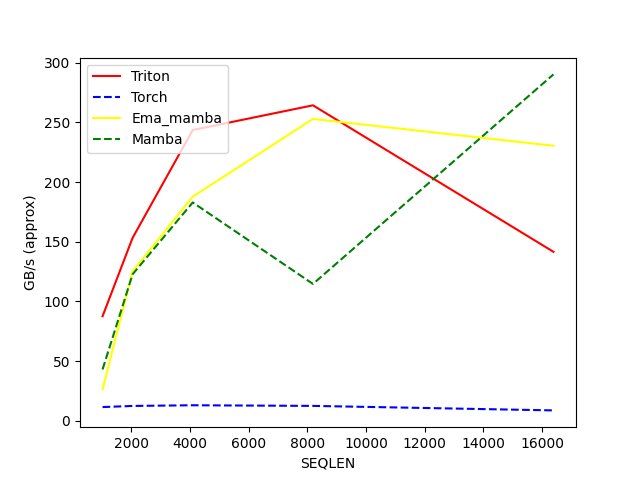
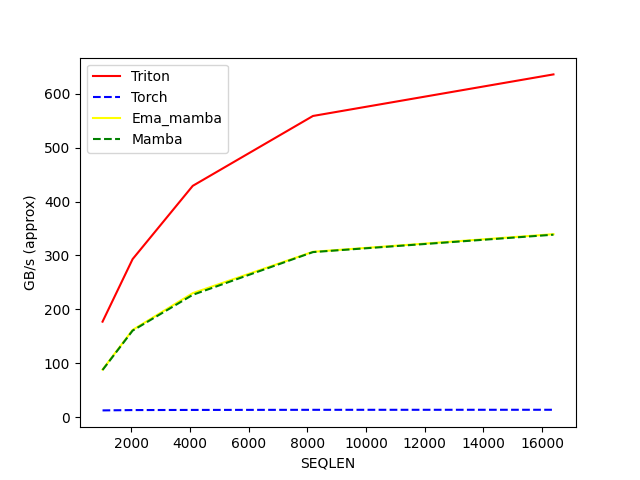
Add MAMBA_HEADS = 8 analysis
This commit checks if increasing the number of heads to 8 improves the performance,
It does not, it actually decreases the gap between the simple triton kernel and the more
sophisticated one

diff --git a/kernels/benchmarks/ema_scan/results.html b/kernels/benchmarks/ema_scan/results.html
@@ -1,11 +1,11 @@
 <html><body>
-<image src="ema_1_64.bench.png"/>
-<image src="ema_2_64.bench.png"/>
-<image src="ema_4_64.bench.png"/>
-<image src="ema_1_128.bench.png"/>
-<image src="ema_2_128.bench.png"/>
-<image src="ema_4_128.bench.png"/>
-<image src="ema_1_256.bench.png"/>
-<image src="ema_2_256.bench.png"/>
-<image src="ema_4_256.bench.png"/>
+<image src="ema_b1_head_dim64_nh8.bench.png"/>
+<image src="ema_b2_head_dim64_nh8.bench.png"/>
+<image src="ema_b4_head_dim64_nh8.bench.png"/>
+<image src="ema_b1_head_dim128_nh8.bench.png"/>
+<image src="ema_b2_head_dim128_nh8.bench.png"/>
+<image src="ema_b4_head_dim128_nh8.bench.png"/>
+<image src="ema_b1_head_dim256_nh8.bench.png"/>
+<image src="ema_b2_head_dim256_nh8.bench.png"/>
+<image src="ema_b4_head_dim256_nh8.bench.png"/>
 </body></html>

diff --git a/kernels/ema_chunk_state.py b/kernels/ema_chunk_state.py
@@ -82,11 +82,8 @@ def _chunk_cumsum_fwd_kernel(
     #----------------------------------------------
                 # Optimization 1.
     #----------------------------------------------
-
-
     # Since A is all negative ones, we need not load it and we can recompute it
-    # instead
-    # it is unnecessary to load A here since it is all all ones
+    # instead it is unnecessary to load A here since it is all all negative ones
 
     # ----------------------------------------------
                 # OLDER CODE
@@ -165,11 +162,24 @@ def _chunk_state_fwd_kernel(
     HAS_SEQ_IDX: tl.constexpr,
     BLOCK_SIZE_M: tl.constexpr, BLOCK_SIZE_N: tl.constexpr, BLOCK_SIZE_K: tl.constexpr,
 ):
+    """
+    X : b l h p  = b c q h p
+    B: b l g d = b l 1 1  = b c q 1 1
+    A_cs : b h c q
+    dt: b h c q
+    
+    
+    BLOCK_SIZE_M over the head dim 
+    BLOCK_SIZE_N over the d_state
+    BLOCK_SIZE_K over the Sequence length (chunk_size), but this is just a
+    hyper parameter to decide how you are stepping into the chunk size
+    """
     pid_bc = tl.program_id(axis=1)
     pid_c = pid_bc // batch
     pid_b = pid_bc - pid_c * batch
     pid_h = tl.program_id(axis=2)
     num_pid_n = tl.cdiv(dstate, BLOCK_SIZE_N)
+    # TODO(kartiksrinivas): Does it even make sense to do BLOCK_SIZE_N now that dstate = 1?        
     pid_m = tl.program_id(axis=0) // num_pid_n
     pid_n = tl.program_id(axis=0) % num_pid_n
     b_ptr += pid_b * stride_b_batch + pid_c * chunk_size * stride_b_seqlen + (pid_h // nheads_ngroups_ratio) * stride_b_head
@@ -182,10 +192,20 @@ def _chunk_state_fwd_kernel(
     offs_m = pid_m * BLOCK_SIZE_M + tl.arange(0, BLOCK_SIZE_M)
     offs_n = pid_n * BLOCK_SIZE_N + tl.arange(0, BLOCK_SIZE_N)
     offs_k = tl.arange(0, BLOCK_SIZE_K)
+
+    # shape = (BLOCK_SIZE_M, BLOCK_SIZE_K) # over head_dim, seqlen
     x_ptrs = x_ptr + (offs_m[:, None] * stride_x_hdim + offs_k[None, :] * stride_x_seqlen)
+
+    # shape = (BLOCK_SIZE_N, BLOCK_SIZE_K) # over d_state, seqlen
     b_ptrs = b_ptr + (offs_n[None, :] * stride_b_dstate + offs_k[:, None] * stride_b_seqlen)
+
+    # shape = (BLOCK_SIZE_K) # over seqlen
     dt_ptrs = dt_ptr + offs_k * stride_dt_csize
+
+    # This is loading the final scalar in the cumsum
     dA_cs_last = tl.load(dA_cumsum_ptr + (chunk_size - 1) * stride_dA_cs_csize).to(tl.float32)
+
+    # shape = (BLOCK_SIZE_K)
     dA_cumsum_ptrs = dA_cumsum_ptr + offs_k * stride_dA_cs_csize
     if HAS_SEQ_IDX:
         seq_idx_ptrs = seq_idx_ptr + offs_k * stride_seq_idx_seqlen
@@ -195,6 +215,7 @@ def _chunk_state_fwd_kernel(
         seq_idx_last = tl.load(seq_idx_ptr + (chunk_size_limit - 1) * stride_seq_idx_seqlen)
 
     acc = tl.zeros((BLOCK_SIZE_M, BLOCK_SIZE_N), dtype=tl.float32)
+    # ! Compute within a chunk, the matmuls with that BLOCK_SIZE_K fused for x, b
     for k in range(0, chunk_size_limit, BLOCK_SIZE_K):
         x = tl.load(x_ptrs, mask=(offs_m[:, None] < hdim) & (offs_k[None, :] < chunk_size_limit - k), other=0.0)
         b = tl.load(b_ptrs, mask=(offs_k[:, None] < chunk_size_limit - k) & (offs_n[None, :] < dstate), other=0.0).to(tl.float32)

diff --git a/kernels/benchmarks/ema_bench.py b/kernels/benchmarks/ema_bench.py
@@ -9,7 +9,7 @@ from mamba_ssm.ops.triton.ssd_combined import mamba_chunk_scan_combined
 from einops import rearrange, repeat
 
 
-MAMBA_NUM_HEADS = 2
+MAMBA_NUM_HEADS = 8
 
 def ema_simple(X, P):
 
@@ -51,7 +51,7 @@ for head_dim in [64, 128, 256]:
                 line_names=["Triton", "Torch", "Ema_mamba", "Mamba"],
                 styles=[("red", "-"), ("blue", "--"), ("yellow", "-"), ("green", "--")],
                 ylabel="GB/s (approx)",
-                plot_name=f"ema_{batch_size}_{head_dim}.bench",
+                plot_name=f"ema_b{batch_size}_head_dim{head_dim}_nh{MAMBA_NUM_HEADS}.bench",
                 args={
                     "BATCH": batch_size,
                     "HEAD_DIM": head_dim,
@@ -73,10 +73,10 @@ def bench_ema(BATCH, SEQLEN, HEAD_DIM, MAMBA_HEAD_DIM, MAMBA_CHUNK_SIZE, provide
     if provider == "torch":
         # naive EMA in PyTorch
         fn = lambda: ema_simple(x, p)
-        ms = triton.testing.do_bench(fn)
+        ms = triton.testing.do_bench_cudagraph(fn)
     elif provider == "triton":
         fn = lambda: ema_scan_combined(x, p)
-        ms = triton.testing.do_bench(fn)
+        ms = triton.testing.do_bench_cudagraph(fn)
     elif provider == "ema_mamba":
         dt = -torch.log(1 - p).to(torch.float32).squeeze(-1)
         X_beta = x / dt[..., None]
@@ -87,7 +87,7 @@ def bench_ema(BATCH, SEQLEN, HEAD_DIM, MAMBA_HEAD_DIM, MAMBA_CHUNK_SIZE, provide
         C_m = torch.ones_like(B_m)
         fn = lambda: ema_chunk_scan_combined(
             X_m, dt, A, B_m, C_m, chunk_size=MAMBA_CHUNK_SIZE, seq_idx=None)
-        ms = triton.testing.do_bench(fn)
+        ms = triton.testing.do_bench_cudagraph(fn)
     elif provider == "mamba":
         dt = -torch.log(1 - p).to(torch.float32).squeeze(-1)
         X_beta = x / dt[..., None]
@@ -98,7 +98,7 @@ def bench_ema(BATCH, SEQLEN, HEAD_DIM, MAMBA_HEAD_DIM, MAMBA_CHUNK_SIZE, provide
         C_m = torch.ones_like(B_m)
         fn = lambda: mamba_chunk_scan_combined(
             X_m, dt, A, B_m, C_m, chunk_size=MAMBA_CHUNK_SIZE, seq_idx=None)
-        ms = triton.testing.do_bench(fn)
+        ms = triton.testing.do_bench_cudagraph(fn)
 
     # Rough throughput: bytes processed per second
     bytes_moved = 3 * x.numel() * x.element_size()  # read X, write Z, read p
